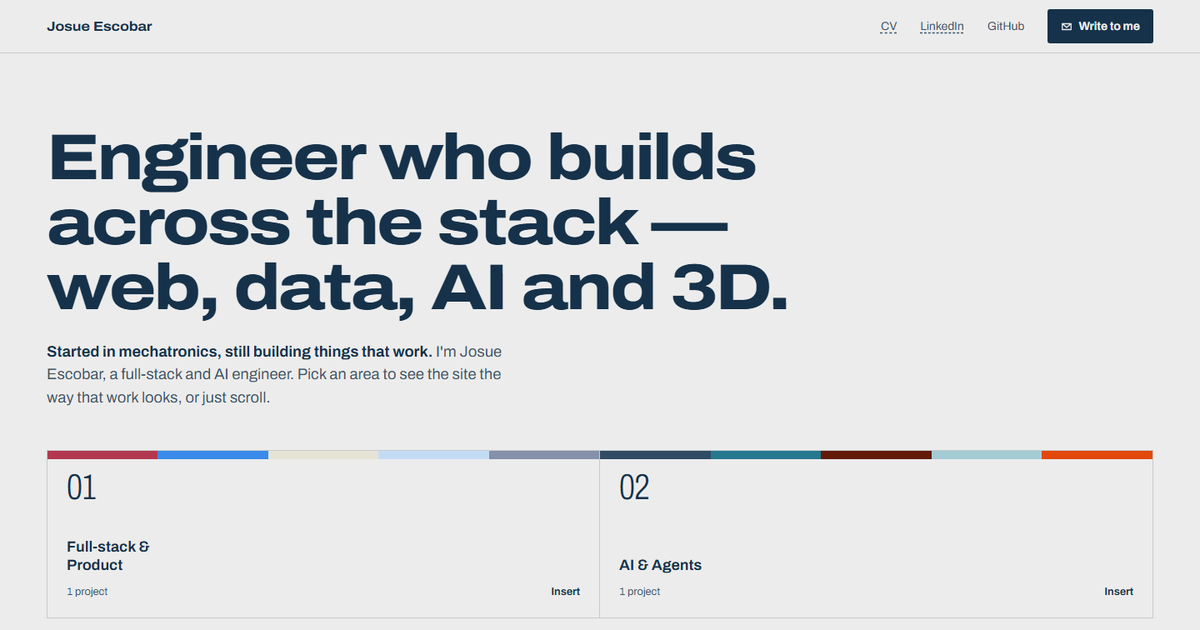
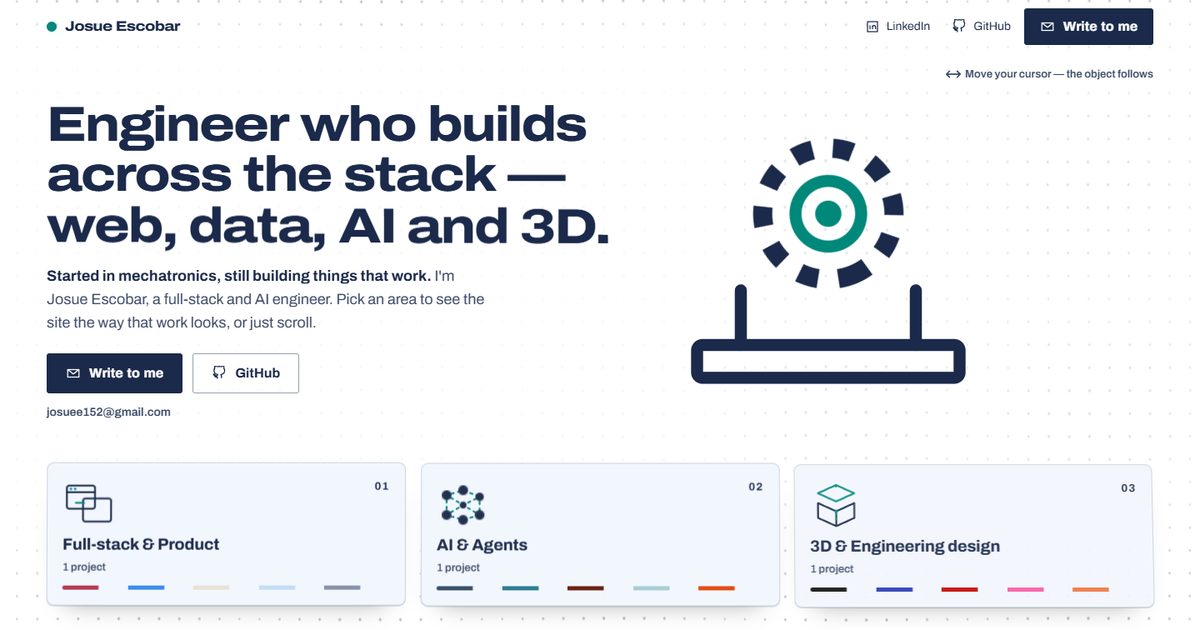
Point canonical, Open Graph and sitemap at the workers.dev URL

diff --git a/index.html b/index.html
@@ -17,15 +17,17 @@
     <meta name="description" content="Engineer who builds across the stack — web, data, AI and 3D. Started in mechatronics, still building things that work." />
     <meta name="theme-color" content="#FFFFFF" />
     <link rel="icon" type="image/svg+xml" href="/favicon.svg" />
+    <link rel="canonical" href="https://myrespository.josuee152.workers.dev/" />
 
     <!-- Link previews (LinkedIn, WhatsApp, X) read only this static HTML; they never run the app. -->
     <meta property="og:type" content="profile" />
+    <meta property="og:url" content="https://myrespository.josuee152.workers.dev/" />
     <meta property="og:title" content="Josue Escobar — Full-stack &amp; AI engineer" />
     <meta property="og:description" content="Engineer who builds across the stack — web, data, AI and 3D. Started in mechatronics, still building things that work." />
-    <meta property="og:image" content="/og.png" />
+    <meta property="og:image" content="https://myrespository.josuee152.workers.dev/og.png" />
     <meta property="og:image:width" content="1200" />
     <meta property="og:image:height" content="630" />
-    <meta property="og:image:alt" content="Josue Escobar's portfolio: the headline and four area modules" />
+    <meta property="og:image:alt" content="Josue Escobar's portfolio: the headline, a 3D piece and the area cards" />
     <meta name="twitter:card" content="summary_large_image" />
 
     <script type="application/ld+json">
@@ -33,6 +35,7 @@
         "@context": "https://schema.org",
         "@type": "Person",
         "name": "Josue Escobar",
+        "url": "https://myrespository.josuee152.workers.dev/",
         "jobTitle": "Full-stack and AI engineer",
         "email": "mailto:josuee152@gmail.com",
         "worksFor": { "@type": "Organization", "name": "Ecosat" },

diff --git a/docs/adr/0001-stack-del-sitio.md b/docs/adr/0001-stack-del-sitio.md
@@ -15,7 +15,7 @@ El portafolio se reconstruye desde cero a partir del mock aprobado (`.impeccable
 - **Fuentes:** alojadas en el propio sitio con Fontsource: `@fontsource-variable/archivo`, `funnel-display`, `unbounded`, `doto` y `@fontsource/michroma`. Antes de usar Archivo hay que verificar que su paquete incluye el eje `wdth`.
 - **Animación:** CSS, Web Animations y canvas 2D propios, sin librería de animación. La escena 3D del hero usa `three` 0.170.0 (carga diferida) porque el objeto que cambia de forma por área y sigue al cursor necesita WebGL instanciado.
 - **SEO:** metadatos fijos en `index.html` (title, description, canonical, Open Graph/Twitter con una imagen de 1200×630), JSON-LD `Person`, `robots.txt`, `sitemap.xml` y favicon. Sin prerender ni librería de SEO.
-- **Hosting:** Cloudflare Pages con dominio propio (el nombre está pendiente). Reemplaza a `gh-pages`.
+- **Hosting:** Cloudflare (Workers con archivos estáticos, que respetan `public/_headers`) en `myrespository.josuee152.workers.dev`, publicado desde `main`; `bit.ly/JosueDev` apunta ahí. El dominio propio sigue pendiente. Reemplaza a `gh-pages`.
 - **Analítica:** Cloudflare Web Analytics. No usa cookies, así que no requiere banner.
 - **Calidad:** lint y build en CI, más un smoke test de Playwright que cambia de cara y verifica que la fila de tarjetas de área no se mueve.
 
@@ -31,5 +31,5 @@ El portafolio se reconstruye desde cero a partir del mock aprobado (`.impeccable
 
 - Salen FontAwesome, `gh-pages`, los componentes actuales, los respaldos `*~` y el `.env` versionado.
 - El contacto es correo directo (`mailto:`), así que `@emailjs/browser` también sale.
-- Mientras no haya dominio, `index.html` no lleva `canonical` ni `og:url`, no hay `sitemap.xml` y `og:image` usa una ruta relativa. Varios lectores de vista previa exigen URL absoluta, así que se completa al definir el dominio.
+- `canonical`, `og:url`, `og:image`, el JSON-LD, `sitemap.xml` y `robots.txt` usan la URL de `workers.dev`; al tener dominio propio se cambia en `index.html`, `public/sitemap.xml` y `public/robots.txt`.
 - La corrección de los 3 detalles de contraste que señaló la revisión (foco, texto pequeño sobre regiones, íconos atenuados) entra en esta reconstrucción.
